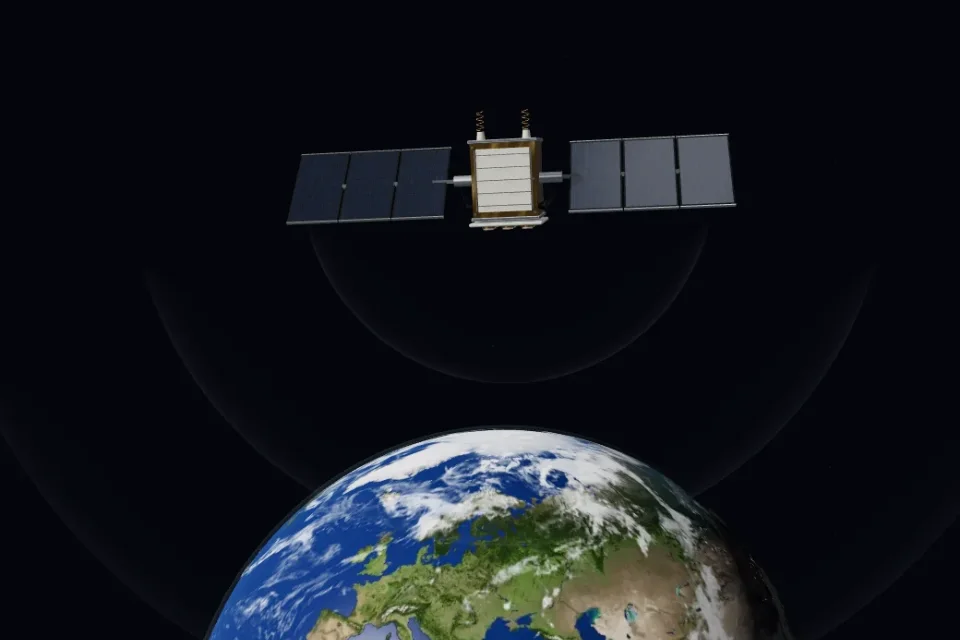
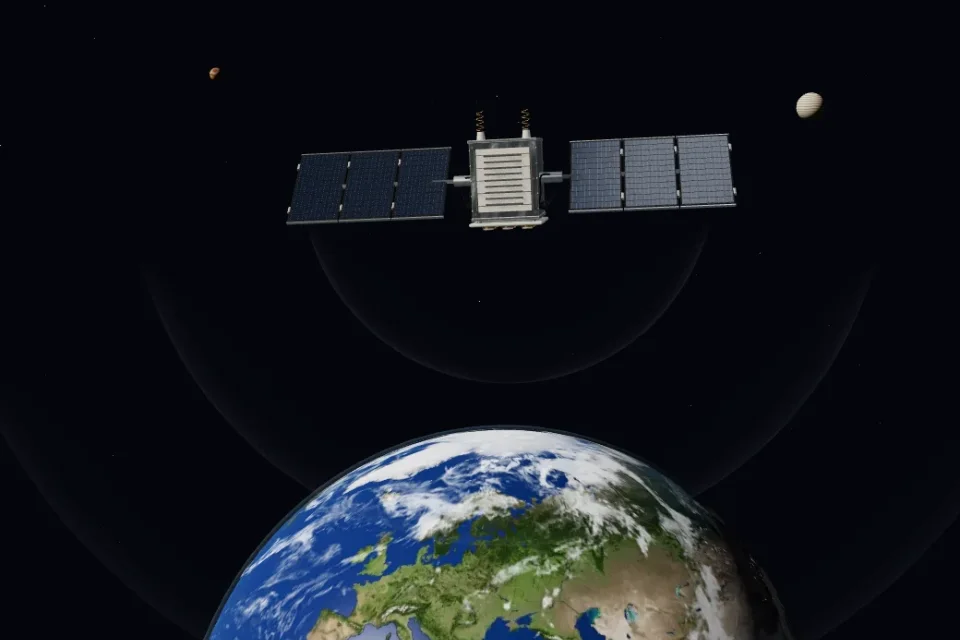
Refine only the orbital scene with spacecraft detail and celestial depth

diff --git a/src/components/three/journey/orbitDetail.ts b/src/components/three/journey/orbitDetail.ts
@@ -1,0 +1,138 @@
+import * as T from 'three'
+import { mergeGeometries } from 'three/addons/utils/BufferGeometryUtils.js'
+import { ModelKit, navigationSatellite, seeded } from './models'
+import { earthModel, type EarthAssets, SUN } from './earth'
+
+/** Scene-01-only detail; the small spacecraft in the positioning scene stay unchanged. */
+export function orbitalSatellite(kit: ModelKit) {
+  const sat = navigationSatellite(kit)
+  // Silver multilayer insulation responds to the reference's cool faces/warm edge highlights.
+  // Clone the material so the positioning scene's shared model cannot change.
+  const silverBlanket = kit.foil.clone()
+  silverBlanket.color.set('#9da8af')
+  silverBlanket.roughness = .3
+  silverBlanket.bumpScale = .085
+  sat.traverse(object => {
+    const mesh = object as T.Mesh
+    if (mesh.material === kit.foil) mesh.material = silverBlanket
+  })
+  const batches = new Map<T.Material, T.BufferGeometry[]>()
+  const add = (geometry: T.BufferGeometry, material: T.Material, position: T.Vector3, rotation = new T.Euler()) => {
+    const matrix = new T.Matrix4().compose(position, new T.Quaternion().setFromEuler(rotation), new T.Vector3(1, 1, 1))
+    const flat = geometry.index ? geometry.toNonIndexed() : geometry
+    if (flat !== geometry) geometry.dispose()
+    flat.applyMatrix4(matrix)
+    const list = batches.get(material) ?? []
+    list.push(flat); batches.set(material, list)
+  }
+  const cell = new T.MeshPhysicalMaterial({ color: '#172c48', metalness: .48, roughness: .24, clearcoat: .8, clearcoatRoughness: .16 })
+  const interconnect = new T.MeshStandardMaterial({ color: '#8d9fba', metalness: .8, roughness: .32 })
+  // Actual raised cells and busbars, above the existing thin composite wing substrates.
+  const wingRotation = new T.Euler(.78, 0, 0)
+  for (const side of [-1, 1]) for (let panel = 0; panel < 3; panel++) {
+    const centre = side * (1.8 + panel * 1.1)
+    const at = (x: number, y: number, z: number) => new T.Vector3(x, y, z).applyEuler(wingRotation).add(new T.Vector3(centre, 0, 0))
+    for (let row = 0; row < 12; row++) for (let col = 0; col < 6; col++) {
+      const x = -.42 + col * .168, z = -.85 + row * .155
+      add(new T.BoxGeometry(.157, .008, .144), cell, at(x, .035, z), wingRotation)
+      for (const dx of [-.043, .043]) add(new T.BoxGeometry(.003, .0015, .143), interconnect, at(x + dx, .04, z), wingRotation)
+    }
+    // Rear support stringers, paired hinge barrels and flex-cable bridge.
+    for (const z of [-.65, .65]) add(new T.BoxGeometry(1.04, .035, .025), kit.metal, at(0, -.045, z), wingRotation)
+    for (const z of [-.62, .62]) add(new T.CylinderGeometry(.035, .035, .15, 10), kit.metal, at(side * .54, 0, z), new T.Euler(Math.PI / 2 + .78, 0, 0))
+  }
+  // Blanket retention tapes and bolt rails run along actual bus edges.
+  for (const x of [-.66, .66]) {
+    for (const z of [-.7, .7]) add(new T.BoxGeometry(.032, 1.48, .035), kit.metal, new T.Vector3(x, 0, z))
+    for (let y = -.6; y < .7; y += .3) for (const z of [-.72, .72]) {
+      add(new T.SphereGeometry(.024, 8, 6), kit.metal, new T.Vector3(x, y, z))
+    }
+    // Harness routed to the panel-drive assembly rather than arbitrary loose wires.
+    const curve = new T.CatmullRomCurve3([new T.Vector3(x, -.55, .6), new T.Vector3(x * 1.08, -.3, .63), new T.Vector3(x * 1.08, .05, .25), new T.Vector3(x * 1.45, .05, 0)])
+    add(new T.TubeGeometry(curve, 20, .018, 6, false), kit.dark, new T.Vector3())
+  }
+  // Recessed sensor aperture, radiator louvres and supported antenna deck.
+  add(new T.BoxGeometry(.3, .27, .12), kit.metal, new T.Vector3(.35, .42, -.79))
+  add(new T.CylinderGeometry(.09, .09, .13, 20), kit.dark, new T.Vector3(.35, .42, -.86), new T.Euler(Math.PI / 2, 0, 0))
+  for (let i = 0; i < 9; i++) add(new T.BoxGeometry(.75, .025, .055), kit.metal, new T.Vector3(0, -.48 + i * .12, .81), new T.Euler(.2, 0, 0))
+  for (const x of [-.55, .55]) for (const z of [-.6, .6]) add(new T.CylinderGeometry(.045, .055, .17, 10), kit.metal, new T.Vector3(x, -.83, z))
+  for (const [material, parts] of batches) {
+    const geometry = mergeGeometries(parts)!
+    parts.forEach(p => p.dispose())
+    const mesh = new T.Mesh(geometry, material)
+    mesh.castShadow = mesh.receiveShadow = true
+    sat.add(mesh)
+  }
+  return sat
+}
+
+/** Additional optical-depth limb for the opening shot only; not a full atmosphere solver. */
+export function orbitalEarth(assets: EarthAssets, segments: number) {
+  const earth = earthModel(8, assets, segments)
+  const limb = new T.Mesh(new T.SphereGeometry(8.13, segments, 48), new T.ShaderMaterial({
+    transparent: true, depthWrite: false, side: T.BackSide, blending: T.AdditiveBlending,
+    uniforms: { sun: { value: SUN } },
+    vertexShader: `varying vec3 n,w;void main(){n=normalize(mat3(modelMatrix)*normal);vec4 p=modelMatrix*vec4(position,1.);w=p.xyz;gl_Position=projectionMatrix*viewMatrix*p;}`,
+    fragmentShader: `uniform vec3 sun;varying vec3 n,w;void main(){
+      vec3 normal=normalize(n),view=normalize(cameraPosition-w);
+      float grazing=1.-abs(dot(normal,view));
+      float daylight=smoothstep(-.18,.45,dot(normal,sun));
+      float optical=1.-exp(-pow(grazing,12.)*.55);
+      gl_FragColor=vec4(vec3(.12,.32,.62),optical*daylight*.5);
+      #include <tonemapping_fragment>
+      #include <colorspace_fragment>
+    }`,
+  }))
+  earth.add(limb)
+  return earth
+}
+
+/** Artistic celestial backdrop: stable far stars, very small depth parallax, two distant illustrative planets.
+ * Not an ephemeris or accurate angular scale. No geocentric orbital motion is introduced. */
+export function orbitalBackdrop(quality: number, time: { value: number }) {
+  const group = new T.Group(), random = seeded(421)
+  const count = Math.round(3600 * quality), positions = [], sizes = [], colors = [], phases = []
+  for (let i = 0; i < count; i++) {
+    const az = random() * Math.PI * 2, y = random() * 2 - 1
+    const radius = i % 5 === 0 ? 115 + random() * 30 : 175 + random() * 15
+    const horizontal = Math.sqrt(1 - y * y)
+    positions.push(radius * horizontal * Math.cos(az), radius * y, radius * horizontal * Math.sin(az))
+    const power = Math.pow(random(), 5)
+    sizes.push(.65 + power * 1.3)
+    const warm = random(), brightness = .18 + power * .65
+    colors.push(brightness * (warm > .75 ? 1 : .79), brightness * .9, brightness * (warm > .75 ? .78 : 1))
+    phases.push(i % 97 === 0 ? random() * 6.28 + 1 : 0)
+  }
+  const geometry = new T.BufferGeometry()
+  geometry.setAttribute('position', new T.Float32BufferAttribute(positions, 3))
+  geometry.setAttribute('color', new T.Float32BufferAttribute(colors, 3))
+  geometry.setAttribute('size', new T.Float32BufferAttribute(sizes, 1))
+  geometry.setAttribute('phase', new T.Float32BufferAttribute(phases, 1))
+  const stars = new T.Points(geometry, new T.ShaderMaterial({
+    vertexColors: true, transparent: true, depthWrite: false,
+    uniforms: { time },
+    vertexShader: `attribute float size,phase;uniform float time;varying vec3 tint;void main(){tint=color*(phase>0.?1.+.02*sin(time*.7+phase):1.);vec4 p=modelViewMatrix*vec4(position,1.);gl_PointSize=size;gl_Position=projectionMatrix*p;}`,
+    fragmentShader: `varying vec3 tint;void main(){float r=length(gl_PointCoord-.5);if(r>.5)discard;gl_FragColor=vec4(tint,(1.-smoothstep(.05,.5,r)));}`,
+  }))
+  stars.frustumCulled = false; stars.renderOrder = -8; group.add(stars)
+  // Positions composed in the initial camera frame, fixed thereafter; no orbital path.
+  const forward = new T.Vector3(-12, -3.5, -19).normalize()
+  const right = new T.Vector3().crossVectors(forward, new T.Vector3(0, 1, 0)).normalize()
+  const up = new T.Vector3().crossVectors(right, forward)
+  for (const [x,y,r,gas] of [[-.27,.23,.6,0],[.28,.2,1.3,1]]) {
+    const material = new T.ShaderMaterial({uniforms:{sun:{value:SUN},gas:{value:gas}},
+      vertexShader:`varying vec3 n;varying vec2 tex;void main(){n=normalize(mat3(modelMatrix)*normal);tex=uv;gl_Position=projectionMatrix*modelViewMatrix*vec4(position,1.);}`,
+      fragmentShader:`uniform vec3 sun;uniform float gas;varying vec3 n;varying vec2 tex;void main(){
+        float detail=sin(tex.y*110.+sin(tex.x*32.)*.7)*.5+.5;
+        vec3 rocky=mix(vec3(.2,.07,.035),vec3(.42,.22,.11),detail);
+        vec3 bands=mix(vec3(.28,.23,.17),vec3(.5,.43,.31),detail);
+        gl_FragColor=vec4(mix(rocky,bands,gas)*(.03+max(dot(normalize(n),sun),0.)*1.4),1.);
+        #include <tonemapping_fragment>
+        #include <colorspace_fragment>
+      }`})
+    const body = new T.Mesh(new T.SphereGeometry(r!, 32, 24), material)
+    body.position.copy(forward).multiplyScalar(100).addScaledVector(right,x!*100).addScaledVector(up,y!*100)
+    group.add(body)
+  }
+  return group
+}

diff --git a/src/components/three/JourneyScene.ts b/src/components/three/JourneyScene.ts
@@ -3,8 +3,9 @@ import { conventionalWeights, exactCovariance, linToDb, mvdrWeights, patternSky,
 import { JOURNEY_STAGES, journeyAt, smoothstep } from '../../lib/journeyPath'
 import type { DeviceTier } from '../../lib/env'
 import { RoomEnvironment } from 'three/addons/environments/RoomEnvironment.js'
-import { ModelKit, navigationSatellite, receiveArray, processingBoard, sensorVehicle, satelliteFleet } from './journey/models'
+import { ModelKit, receiveArray, processingBoard, sensorVehicle, satelliteFleet } from './journey/models'
 import { EarthAssets, earthModel, SUN } from './journey/earth'
+import { orbitalSatellite, orbitalEarth, orbitalBackdrop } from './journey/orbitDetail'
 import { streetCloud } from './journey/perception'
 
 /**
@@ -107,6 +108,7 @@ export class JourneyScene {
   // Animated parts.
   private timeUniforms: { value: number }[] = []
   private satellite!: THREE.Group
+  private orbitalSky!: THREE.Group
   private arrayPattern!: { attr: THREE.BufferAttribute; gain: THREE.BufferAttribute; from: Float32Array; to: Float32Array; gFrom: Float32Array; gTo: Float32Array; last: number; geometry: THREE.BufferGeometry }
   private trajectory!: { line: THREE.Mesh; curve: THREE.CatmullRomCurve3; vehicle: THREE.Object3D; scan: THREE.Mesh; count: number }
   private fix!: { globe: THREE.Group; lines: THREE.LineSegments; pulse: THREE.Sprite }
@@ -194,10 +196,12 @@ export class JourneyScene {
   /** World 0 — representative navigation spacecraft, textured Earth and scientific wave overlays. */
   private buildSpace(k: number) {
     const c = center(0)
-    const earth = earthModel(8, this.earthAssets, k<.6?64:96)
+    this.orbitalSky = orbitalBackdrop(k, this.timeUniform())
+    this.scene.add(this.orbitalSky)
+    const earth = orbitalEarth(this.earthAssets, k<.6?64:96)
     earth.position.set(c.x - 2, c.y - 11, c.z - 3)
     this.scene.add(earth)
-    const sat = navigationSatellite(this.kit)
+    const sat = orbitalSatellite(this.kit)
     sat.position.set(c.x, c.y+3.5, c.z)
     this.satellite=sat
     this.scene.add(sat)
@@ -656,10 +660,12 @@ export class JourneyScene {
     this.camera.position.copy(pos)
     this.camera.lookAt(look)
     this.starfield.position.copy(this.camera.position)
-    this.starfield.visible=i===0||i===5||j.travel>0
+    this.starfield.visible=i!==0&&(i===5||j.travel>0)
+    this.orbitalSky.position.copy(this.camera.position).multiplyScalar(.995)
     this.worlds.forEach((world,index)=>{world.visible=index===i||(j.travel>0&&index===next)})
     this.sun.target.position.copy(look)
     this.sun.position.copy(look).addScaledVector(SUN,60)
+    this.sun.color.set(i===0 ? '#ffe5c2' : '#fff5e5')
     const inSpace=i===0||i===5
     this.fill.intensity=inSpace?.32:.75
     this.scene.environmentIntensity=inSpace?.18:.4

diff --git a/docs/SCENE01.md b/docs/SCENE01.md
@@ -1,0 +1,28 @@
+# Scene 01 — orbital detail pass
+
+Scope: opening orbital world only. Scene 02–06 builder code, shared Earth/model helpers, typography, navigation, narrative, station coordinates, scroll mapping and motion remain unchanged. Scene 01 has its own detail module and poster.
+
+The supplied image was visually inspected: silver thermal insulation, dark solar cells, warm edge illumination, cloud detail and a soft blue horizon informed the materials. Large communications dishes and the close-up camera composition were not copied. The separately referenced portfolio2.webm was not available; motion was compared against the existing implementation.
+
+## Changes
+
+- Original GNSS-type spacecraft augmented with 432 raised cells, fine busbars, hinge barrels, rear structural stringers, routed harnesses, radiator louvres, sensor aperture, blanket retention rails and fasteners. A local silver-blanket material clone leaves the small Scene 06 spacecraft unchanged.
+- Existing licensed Earth surface/cloud/night maps retained, with an additional sunlit optical-depth limb approximation. This is not a full atmospheric radiative-transfer simulation. Sun direction remains shared with Earth; spacecraft highlights receive a restrained warm tint only in Scene 01.
+- 1,800–3,600 deterministic stars in two depth ranges, brightness and colour-temperature variation. Camera-relative translation suppresses almost all parallax. About 1% have a 2% slow intensity variation as an artistic effect, not atmospheric scintillation in space.
+- Two small procedurally shaded, Mars-like and banded-gas-planet-like bodies. Fixed directions, no orbital animation. This is an illustrative celestial composition, not actual ephemerides, observed angular sizes or a depiction of planets orbiting Earth.
+- Extra geometry batches by material; cells are combined meshes, not hundreds of independent draws. Existing lazy initialization, economy-mode resolution, offscreen suspension, cleanup and phone/reduced-motion posters retained.
+
+## Assets and ownership
+
+No new external assets or dependencies. Models and planet/star shaders are original code. The supplied reference image is not redistributed in the application. Earth maps retain the Solar System Scope CC BY 4.0 attribution in the public credits page. Only `public/media/journey/space.webp` is regenerated with a changed result; the other five posters are unchanged.
+
+## Validation
+
+Results are recorded below after execution. The local environment uses Chrome/SwiftShader, one browser worker. Physical GPU performance, Safari and Firefox remain unverified. The fixed camera keeps the spacecraft smaller than the reference photograph, which limits visibility of fine detail at normal viewing size.
+
+- Strict TypeScript, lint, 40 unit tests and production build passed.
+- Scene 01 and Scene 02 inspected at 1440×900 via actual wheel scroll; no console/page errors.
+- Byte comparison confirmed Scene 02–06 builder implementations unchanged. The other five poster files also remain unchanged.
+- High-tier orbital still: 34 draw calls, 112,208 rendered triangles, 3,600 stars. Previous orbital still: 23 calls, 62,912 triangles, 1,200 stars. This is a deliberate geometry/detail increase, not a measured hardware-FPS guarantee. The existing economy mode remains available.
+- Before/after fixed-camera renders: `docs/review/orbit2/before.webp`, `after.webp`; actual desktop page: `desktop.jpg`.
+- Targeted production browser suite: 13 passed, 3 desktop-only checks skipped on mobile. Includes page loading, overflow, rendered journey progress, skip navigation, WebGL/texture failure and reduced-motion posters.
